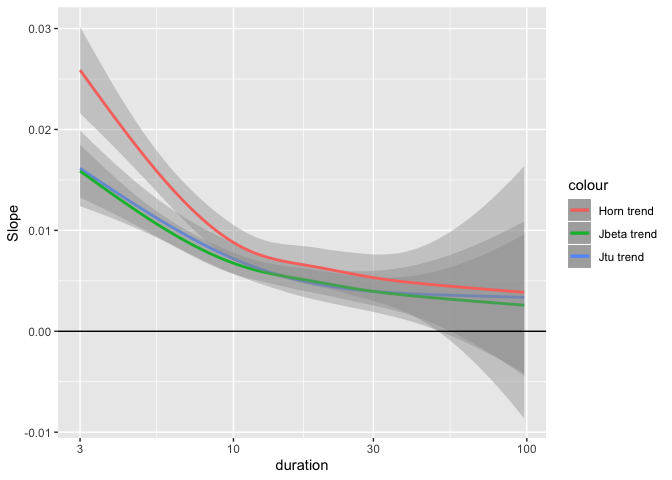
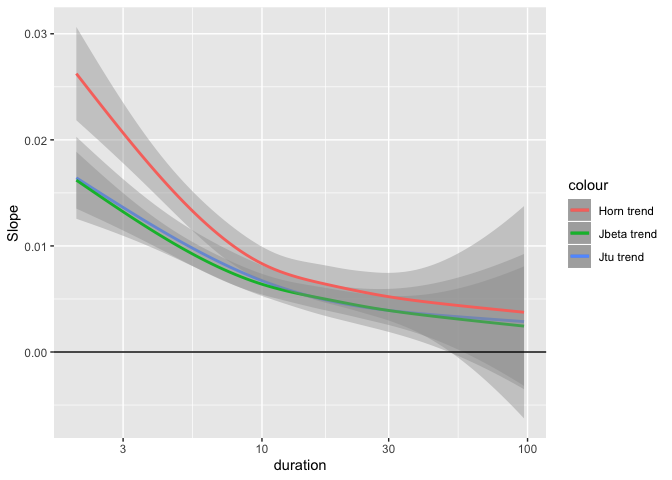
Add plots for null model SD vs. nspp, nyrs, duration

diff --git a/code/calc_turnover.md b/code/calc_turnover.md
@@ -200,6 +200,7 @@ calcexp <- function(y, YEAR, nm = 'y', pred = FALSE){
                   # calc half-saturations
                   cexp <- coef(modexp)
                   hsexp <- with(as.data.frame(t(cexp)), log(1/2)/a)
+                  if(is.infinite(hsexp)) hsexp <- NA_real_
                   
                   out <- list(y = hsexp) # half-saturation
                   names(out) <- nm
@@ -508,7 +509,9 @@ dev.off()
 
 ## Standardize slope values against null model simulations
 
-### Set up null model sims
+### Plot null model sims
+
+#### Histograms
 
 ``` r
 # remove some duplicates
@@ -519,19 +522,21 @@ sim_summary <- sim_summary[!duplicated(sim_summary), ]
 hist(sim_summary[metric == 'Jaccard (total)', sd], breaks = 200, col = 'grey')
 ```
 
-![](calc_turnover_files/figure-gfm/plot%20sds-1.png)<!-- -->
+![](calc_turnover_files/figure-gfm/plot%20sds%20hist-1.png)<!-- -->
 
 ``` r
 hist(sim_summary[metric == 'Nestedness', sd], breaks = 200, col = 'grey')
 ```
 
-![](calc_turnover_files/figure-gfm/plot%20sds-2.png)<!-- -->
+![](calc_turnover_files/figure-gfm/plot%20sds%20hist-2.png)<!-- -->
 
 ``` r
 hist(sim_summary[metric == 'Morisita-Horn', sd], breaks = 200, col = 'grey')
 ```
 
-![](calc_turnover_files/figure-gfm/plot%20sds-3.png)<!-- -->
+![](calc_turnover_files/figure-gfm/plot%20sds%20hist-3.png)<!-- -->
+
+#### SD vs. expected
 
 ``` r
 # plot
@@ -544,7 +549,7 @@ sim_summary[metric == 'Jaccard (total)', plot(expected, log10(sd+1))]
 abline(h = 0, col = 'red')
 ```
 
-![](calc_turnover_files/figure-gfm/plot%20sds-4.png)<!-- -->
+![](calc_turnover_files/figure-gfm/plot%20sds%20vs.%20exp-1.png)<!-- -->
 
 ``` r
 sim_summary[metric == 'Nestedness', plot(expected, log10(sd+1))]
@@ -556,7 +561,7 @@ sim_summary[metric == 'Nestedness', plot(expected, log10(sd+1))]
 abline(h = 0, col = 'red')
 ```
 
-![](calc_turnover_files/figure-gfm/plot%20sds-5.png)<!-- -->
+![](calc_turnover_files/figure-gfm/plot%20sds%20vs.%20exp-2.png)<!-- -->
 
 ``` r
 sim_summary[metric == 'Morisita-Horn', plot(expected, log10(sd+1))]
@@ -568,11 +573,13 @@ sim_summary[metric == 'Morisita-Horn', plot(expected, log10(sd+1))]
 abline(h = 0, col = 'red')
 ```
 
-![](calc_turnover_files/figure-gfm/plot%20sds-6.png)<!-- -->
+![](calc_turnover_files/figure-gfm/plot%20sds%20vs.%20exp-3.png)<!-- -->
+
+#### SD vs Nyrs
 
 ``` r
 # vs #yrs
-sim_summary[metric == 'Jaccard (total)', plot(Nyrs, sd+0.001, log = 'y', main = 'Null SD declines with #yrs')]
+sim_summary[metric == 'Nestedness', plot(Nyrs, sd+0.001, log = 'y', main = 'Null SD declines with #yrs (J tu)')]
 ```
 
     ## NULL
@@ -583,10 +590,100 @@ abline(h = 0.001+0.001, col = 'green')
 abline(h = 0.01+0.001, col = 'grey')
 ```
 
-![](calc_turnover_files/figure-gfm/plot%20sds-7.png)<!-- -->
+![](calc_turnover_files/figure-gfm/plot%20sds%20nyrs-1.png)<!-- -->
+
+``` r
+sim_summary[metric == 'Jaccard (total)', plot(Nyrs, sd+0.001, log = 'y', main = 'Null SD declines with #yrs (J total)')]
+```
+
+    ## NULL
+
+``` r
+abline(h = 0.001, col = 'red')
+abline(h = 0.001+0.001, col = 'green')
+abline(h = 0.01+0.001, col = 'grey')
+```
+
+![](calc_turnover_files/figure-gfm/plot%20sds%20nyrs-2.png)<!-- -->
+
+``` r
+sim_summary[metric == 'Morisita-Horn', plot(Nyrs, sd+0.001, log = 'y', main = 'Null SD declines with #yrs (Horn)')]
+```
+
+    ## NULL
+
+``` r
+abline(h = 0.001, col = 'red')
+abline(h = 0.001+0.001, col = 'green')
+abline(h = 0.01+0.001, col = 'grey')
+```
+
+![](calc_turnover_files/figure-gfm/plot%20sds%20nyrs-3.png)<!-- -->
+
+#### SD vs duration
+
+``` r
+sim_summary <- merge(sim_summary, trends[, .(rarefyID, duration = maxyrBT - minyrBT)], all.x = TRUE, by = 'rarefyID')
+# vs #yrs
+sim_summary[metric == 'Nestedness', plot(duration, sd+0.001, log = 'y', main = 'Null SD declines with duration (J tu)')]
+```
+
+    ## NULL
+
+``` r
+abline(h = 0.001, col = 'red')
+abline(h = 0.001+0.001, col = 'green')
+abline(h = 0.01+0.001, col = 'grey')
+```
+
+![](calc_turnover_files/figure-gfm/plot%20sds%20duration-1.png)<!-- -->
+
+``` r
+sim_summary[metric == 'Jaccard (total)', plot(duration, sd+0.001, log = 'y', main = 'Null SD declines with duration (J total)')]
+```
+
+    ## NULL
+
+``` r
+abline(h = 0.001, col = 'red')
+abline(h = 0.001+0.001, col = 'green')
+abline(h = 0.01+0.001, col = 'grey')
+```
+
+![](calc_turnover_files/figure-gfm/plot%20sds%20duration-2.png)<!-- -->
+
+``` r
+sim_summary[metric == 'Morisita-Horn', plot(duration, sd+0.001, log = 'y', main = 'Null SD declines with duration (Horn)')]
+```
+
+    ## NULL
+
+``` r
+abline(h = 0.001, col = 'red')
+abline(h = 0.001+0.001, col = 'green')
+abline(h = 0.01+0.001, col = 'grey')
+```
+
+![](calc_turnover_files/figure-gfm/plot%20sds%20duration-3.png)<!-- -->
+
+#### SD vs Nspp
 
 ``` r
 # vs #spp
+sim_summary[metric == 'Nestedness', plot(Nspp, sd+0.001, log = 'y')]
+```
+
+    ## NULL
+
+``` r
+abline(h = 0.001, col = 'red')
+abline(h = 0.001+0.001, col = 'green')
+abline(h = 0.01+0.001, col = 'grey')
+```
+
+![](calc_turnover_files/figure-gfm/plot%20sds%20nspp-1.png)<!-- -->
+
+``` r
 sim_summary[metric == 'Jaccard (total)', plot(Nspp, sd+0.001, log = 'y')]
 ```
 
@@ -598,11 +695,29 @@ abline(h = 0.001+0.001, col = 'green')
 abline(h = 0.01+0.001, col = 'grey')
 ```
 
-![](calc_turnover_files/figure-gfm/plot%20sds-8.png)<!-- -->
+![](calc_turnover_files/figure-gfm/plot%20sds%20nspp-2.png)<!-- -->
+
+``` r
+sim_summary[metric == 'Morisita-Horn', plot(Nspp, sd+0.001, log = 'y')]
+```
+
+    ## NULL
+
+``` r
+abline(h = 0.001, col = 'red')
+abline(h = 0.001+0.001, col = 'green')
+abline(h = 0.01+0.001, col = 'grey')
+```
+
+![](calc_turnover_files/figure-gfm/plot%20sds%20nspp-3.png)<!-- -->
 
 ### Merge null model
 
 ``` r
+# remove some duplicates
+sim_summary <- as.data.table(sim_summary)
+sim_summary <- sim_summary[!duplicated(sim_summary), ]
+
 # merge
 trends <- merge(trends, sim_summary[metric == 'Jaccard (total)', .(Jbeta_exp = expected, Jbeta_sd = sd, rarefyID)], by = 'rarefyID', all.x = TRUE)
 trends <- merge(trends, sim_summary[metric == 'Nestedness', .(Jtu_exp = expected, Jtu_sd = sd, rarefyID)], by = 'rarefyID', all.x = TRUE)
@@ -664,7 +779,7 @@ apply(trends[, .(Jtutrendrem0, Jbetatrendrem0, Horntrendrem0,
     ##   Jtutrendrem0 Jbetatrendrem0  Horntrendrem0      Jtutrendz    Jbetatrendz 
     ##          32581          32581          32581          29030          29132 
     ##     Horntrendz        Jtulast      Jbetalast       Hornlast         Jtuexp 
-    ##          29032          32581          32581          32581          22524 
+    ##          29032          32581          32581          32581          22523 
     ##       Jbetaexp        Hornexp          Jtumm        Jbetamm         Hornmm 
     ##          22026          20894          32483          32506          32460
 
@@ -816,7 +931,7 @@ summary(trends$Jtuexp)
 ```
 
     ##    Min. 1st Qu.  Median    Mean 3rd Qu.    Max.    NA's 
-    ##    -Inf   0.528   1.386    -Inf   4.326 648.434   10057
+    ##   0.002   0.528   1.386   5.522   4.326 648.434   10058
 
 ``` r
 summary(trends$Jbetaexp)
@@ -1397,7 +1512,7 @@ ggplot(trends, aes(nyrBT, Jtumm, color = 'Jtu mm')) +
 ## Average change compared to duration
 
 ``` r
-trends[, duration := maxyrBT - minyrBT + 1]
+trends[, duration := maxyrBT - minyrBT]
 
 ggplot(trends, aes(duration, Jtutrendrem0, color = 'Jtu trend')) +
     geom_smooth() +
